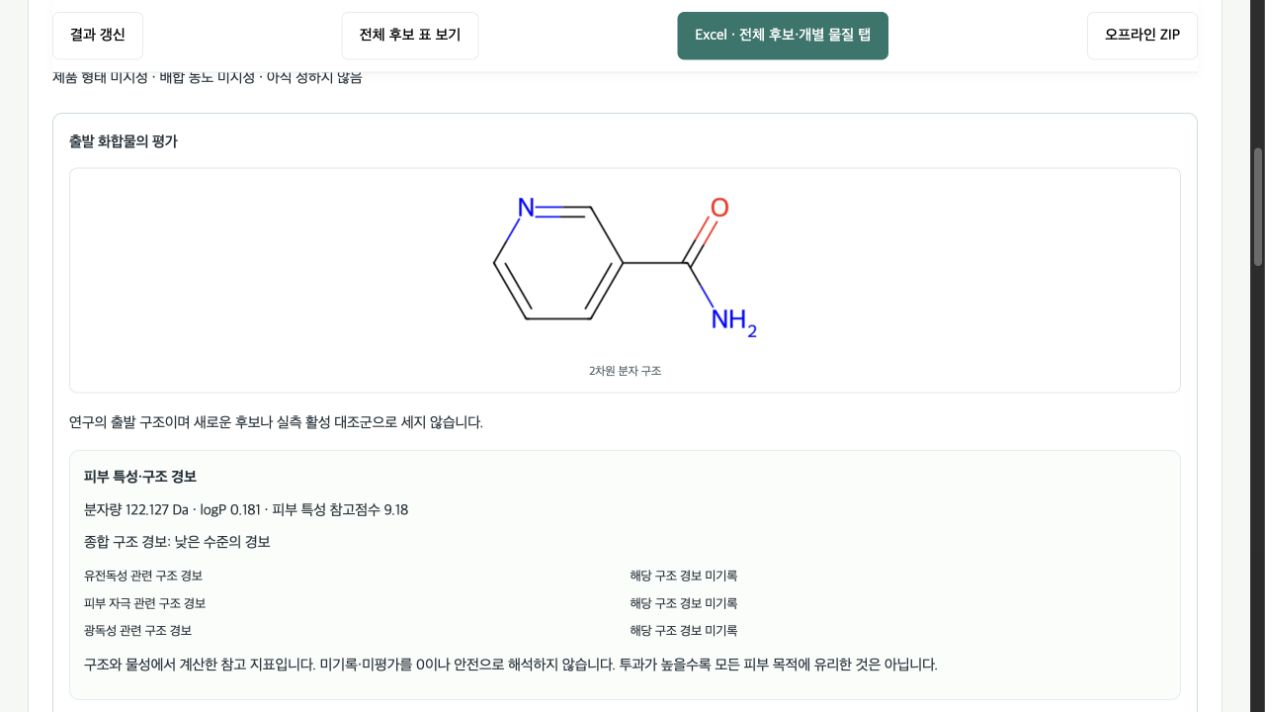
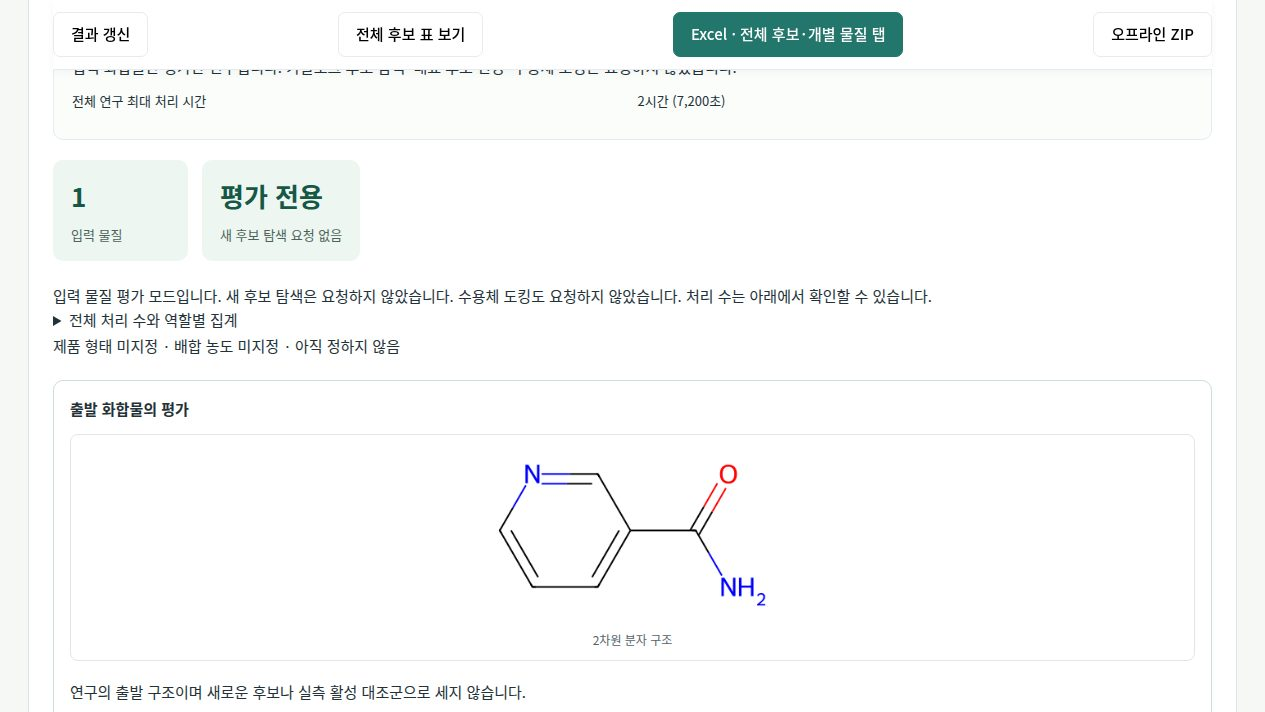
Re-capture tutorial screenshots without computed values
Replace the four public tutorial images that displayed computed outputs:
the structure card now ends above the property line, the ADMET section is
captured with no stored prediction, and the candidate screens show the
filter controls and counts without score columns or compound identifiers.

Captured in a fresh Ubuntu 24.04.5 installation built from this public
source, with the starter catalog produced by the documented build
(333 compounds, 322 successful predictions, 11 unsupported). Image sizes
and the reviewed manifest hashes are unchanged in form; the capture
environment note records that 08 and 09 were taken before catalog
registration.

Captions and the surrounding counts now describe what each new image
actually shows. No scoring, filter, QC or export behaviour changed.

diff --git a/docs/browser.en.md b/docs/browser.en.md
@@ -170,17 +170,17 @@ Click **전체 후보 표 보기** (*Open complete candidate table*) in a comple
 
 ![Candidate comparison filters and counts from a separate Nicotinamide similarity search](images/19-candidate-filters.jpg)
 
-This similarity-search example has **4 stored observations**, including the seed and a repeated structure; its study summary reports **2 new unique candidates**. The first “assess input only” example does not search for candidates.
+This search example has **1 stored observation**, the seed alone; in this starter catalog the study summary reports **0 new unique candidates**. Yields depend on the catalog scope and conditions. The first “assess input only” example does not search for candidates.
 
-![An enabled purchase-only filter gives zero matches while four observations remain saved](images/20-empty-filter-results.jpg)
+![An enabled purchase-only filter gives zero matches while the stored observation remains saved](images/20-empty-filter-results.jpg)
 
-If the table becomes empty, compare **전체 모집단** (*Stored population*) with **필터 적용 후** (*After filters*). Here the purchase-only condition hides all four rows. Turn it off or click **제외 필터 해제** to see them again. Filters do not delete saved results.
+If the table becomes empty, compare **전체 모집단** (*Stored population*) with **필터 적용 후** (*After filters*). Here the purchase-only condition hides every stored row. Turn it off or click **제외 필터 해제** to see them again. Filters do not delete saved results.
 
 ![Completed Nicotinamide assessment and result actions](images/07-completed-study.jpg)
 
-![Two-dimensional compound structure and skin properties](images/08-structure-and-skin.jpg)
+![Two-dimensional structure of the input compound](images/08-structure-and-skin.jpg)
 
-![ADMET outputs with scales and model version](images/09-admet-results.jpg)
+![How the ADMET section reads when no stored prediction exists](images/09-admet-results.jpg)
 
 See the [high-resolution molecular-property and toxicity radars](../README.md#preview-3d-structures-and-prediction-profiles). The SVG originals retain raw values, axis ranges and model-source metadata; use **그래프 SVG 저장** in the app to save your own graph.
 

diff --git a/README.md b/README.md
@@ -84,7 +84,9 @@ If a status request fails or no new response arrives for 20 seconds, the spinner
 
 Scroll down to the **2D structure**, skin properties and **기존 DB 독성·ADMET 예측** (*Cached toxicity/ADMET predictions*). The table shows each model output, scale and model version. Missing values remain unassessed. For a structure-based study, use the [3D pocket walkthrough](docs/browser.en.md#bound-structure-example) to inspect the observed ligand and receptor.
 
-![ADMET outputs with endpoint names, units and model version](docs/images/09-admet-results.jpg)
+![How the ADMET section reads when no stored prediction exists](docs/images/09-admet-results.jpg)
+
+The example above has no stored prediction for that structure, so the section stays **미평가** (*not evaluated*). When predictions exist, the same place lists each endpoint value with its model version.
 
 ### 7. Save Excel — there are two clicks
 

diff --git a/README.ko.md b/README.ko.md
@@ -84,7 +84,9 @@ macOS·Windows는 Ubuntu 서버에 설치한 뒤 [SSH 터널로 접속](docs/cat
 
 아래로 내려 **2D 구조**, 피부 특성과 **기존 DB 독성·ADMET 예측**을 확인합니다. 지표별 모델 출력·척도·버전을 함께 봅니다. 비어 있는 값은 미평가로 남습니다. 결합 구조의 리간드·수용체를 보려면 [3D 포켓 안내](docs/browser.ko.md#결합-구조-예제)를 따라 하세요.
 
-![모델 버전·지표·단위가 함께 있는 ADMET 결과](docs/images/09-admet-results.jpg)
+![저장된 ADMET 예측이 없을 때의 표시](docs/images/09-admet-results.jpg)
+
+위 그림은 해당 구조의 저장 예측이 없어 **미평가**로 남은 경우입니다. 예측이 있으면 같은 자리에 지표별 값과 모델 버전이 표시됩니다.
 
 ### 7. Excel 받기 — 두 번 클릭합니다
 
